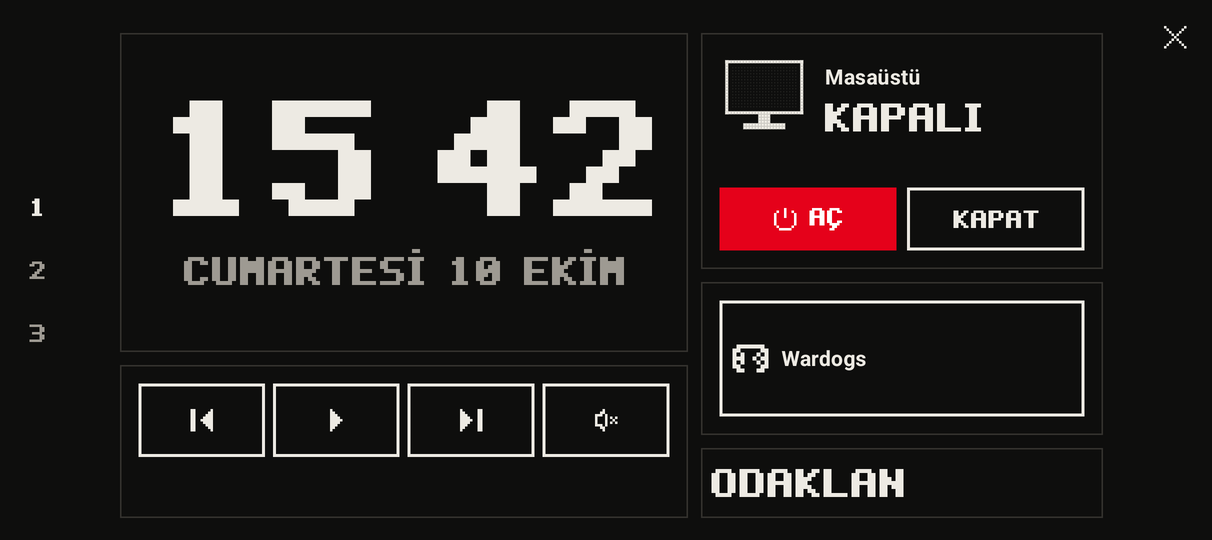
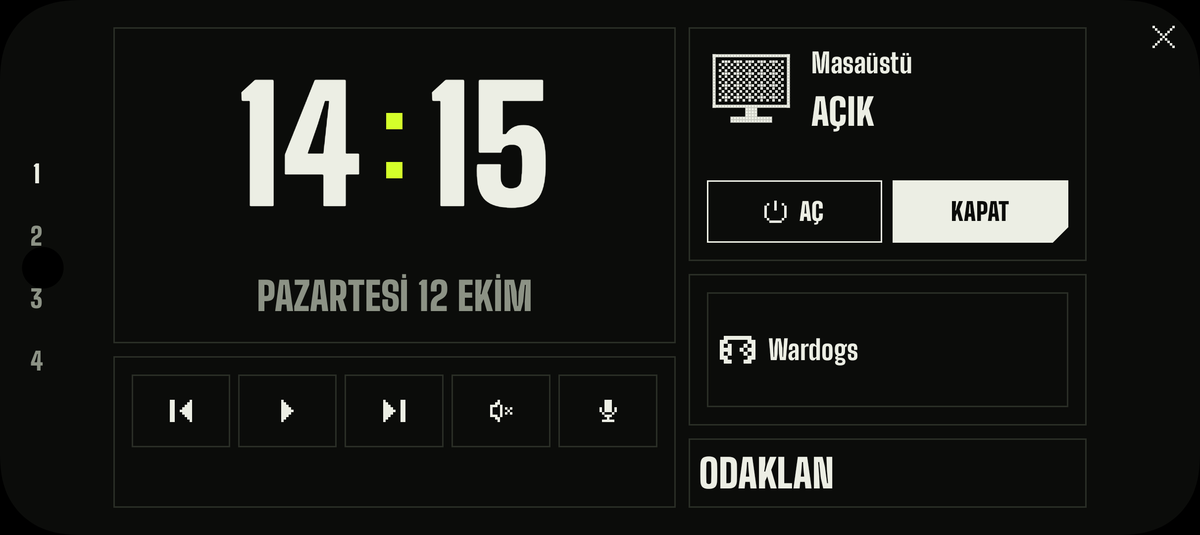
README: iki tema (KATALOG, RUNNER), dosya gönder, Kumanda widget'ı, panel ve otomasyon için yeni ekran görüntüleri

diff --git a/README.md b/README.md
@@ -1,34 +1,79 @@
 # HeyOnLan
 
-Evdeki bilgisayarını telefondan **açıp kapatan** Android uygulaması. Koltuktan kalkmadan bilgisayarı açarsın, açık unuttuysan yataktan kapatırsın.
+Evdeki bilgisayarını telefondan **açıp kapatan** ve uzaktan kumanda gibi yöneten Android uygulaması. Koltuktan kalkmadan bilgisayarı açarsın, açık unuttuysan yataktan kapatırsın, müziği durdurur, sesi kısar, fotoğrafı bilgisayara atarsın.
+
+İki görünüm var, menüden istediğin zaman geçersin: **KATALOG** (kâğıt ve mürekkep, açık ya da koyu) ve **RUNNER** (siyah zemin, asit yeşili).
 
 <p>
-  <img src="ekran/ana-ekran.png" width="240" alt="Ana ekran">
-  <img src="ekran/koyu-tema.png" width="240" alt="Koyu tema">
-  <img src="ekran/zamanli-kapat.png" width="240" alt="Zamanlı kapatma">
+  <img src="ekran/runner-ana.png" width="260" alt="RUNNER teması: ana ekran">
+  <img src="ekran/katalog-ana.png" width="260" alt="KATALOG teması: ana ekran">
+  <img src="ekran/katalog-koyu.png" width="260" alt="KATALOG koyu">
 </p>
 
 ## Neler yapıyor?
 
-- **Aç / kapat:** tek dokunuşla. Bilgisayarın gerçekten açık mı kapalı mı olduğunu gösterir.
-- **Diğer komutlar:** yeniden başlat, uyku, istediğin süre sonra kapat, kilitle, ekranı kapat, ses aç/kıs.
-- **Kısayollar:** telefondan dokununca bilgisayarda bir Steam oyunu, program ya da web sayfası açılır.
-- **Bilgiler:** bilgisayar açıkken işlemci, bellek, sıcaklık ve ne zamandır açık olduğu.
-- **Otomasyon:** belirli saatlerde aç/kapat, eve gelip Wi-Fi'a bağlanınca aç.
-- **Widget ve kısayollar:** ana ekrana küçük yuvarlak tuşlar, bildirim paneline kutucuk.
-- **Sesli komut:** "Hey Google, PC Aç'ı aç" (Bixby'de de çalışır).
-- **Panel:** telefonu yatay koyunca masada küçük bir bilgi ekranı olur. Saat, kullanım değerleri ve kısayolları parmağınla istediğin yere sürüklersin; şarj olurken kendiliğinden açılabilir.
+### Aç, kapat ve kumanda
+- **Aç / kapat:** tek dokunuşla. Bilgisayarın gerçekten açık mı kapalı mı olduğunu ölçüp gösterir.
+- **Güç:** yeniden başlat, uyku, istediğin süre sonra kapat, zamanlı kapatmayı iptal et.
+- **Masaüstü:** kilitle, ekranı kapat, sessiz, **ses yüzdesi** (çubuğu parmağınla kaydır), **mikrofonu kapat / aç** (kapalıyken tuş belli olur), donan oyunu ya da programı **zorla kapat**.
+- **Kısayollar:** dokununca bilgisayarda bir Steam oyunu, program ya da web sayfası açılır, ya da bir program kapanır. İstersen telefonun ana ekranına simge olarak eklersin.
+
+### Bilgisayara dosya gönder
+Galeride, Dosyalar'da ya da WhatsApp'ta **Paylaş**'a bas, listeden **Bilgisayara gönder**'i seç. Fotoğraf ve dosyalar bilgisayarın masaüstündeki **HeyOnLan-Depo** klasörüne düşer (klasör yoksa kendisi oluşturur). Birden fazla bilgisayarın varsa hangisine gideceğini sorar. Aynı adda dosya varsa üstüne yazmaz.
 
 <p>
-  <img src="ekran/panel.png" width="49%" alt="Panel">
-  <img src="ekran/panel-duzenle.png" width="49%" alt="Panel düzenleme">
+  <img src="ekran/paylas.png" width="300" alt="Bilgisayara gönder">
+</p>
+
+### Widget'lar
+Dört widget var: **Tuş** (tek yuvarlak tuş), **Durum** (tuş, ad ve durum), **Hepsi** (bütün bilgisayarlar yan yana) ve **Kumanda**.
+
+**Kumanda**'nın altındaki oka basınca widget'ın hemen altında seçtiğin işler açılır: uyku, kilitle, sessiz, oynat, mikrofon, kısayolların. Widget'ı basılı tutup büyütürsen aynı tuşlar widget'ın içinde görünür. Hangi işlerin çıkacağını uygulamada **Kısayollar** sayfasından seçersin.
+
+<p>
+  <img src="ekran/widget-listesi.png" width="330" alt="Widget listesi">
+  <img src="ekran/kumanda.png" width="330" alt="Kumanda widget'ı açık">
+</p>
+
+### Panel
+Telefonu yatay koyunca masada küçük bir bilgi ekranı olur: saat, çalan şarkı ve albüm kapağı, medya tuşları, işlemci, bellek, ekran kartı, sıcaklık, ağ hızı, Stream Deck gibi büyük kısayol tuşları. Düzeni parmağınla kurarsın; dört ayrı düzen arasında yana kaydırarak geçersin. Şarj olurken kendiliğinden açılabilir. Panel ya da uygulama açıkken bilgisayar çok ısınırsa telefona uyarı gelir.
+
+<p>
+  <img src="ekran/panel.png" width="100%" alt="Panel">
+</p>
+<p>
+  <img src="ekran/panel-ayar.png" width="260" alt="Panel ayarları">
+</p>
+
+### Otomasyon
+Kural: **ne zaman** ve sırayla **ne yapılacak**.
+- **Saatte:** ör. hafta içi 08:30'da aç, sonra Discord'u başlat.
+- **Eve gelince:** ev konumuna girip ev Wi-Fi'ına bağlanınca aç.
+- **Evden çıkınca:** telefon ağdan çıkınca ve bilgisayara bir süre dokunulmayınca bilgisayar kendini uyutur ya da kapatır.
+- **Şarja takınca:** ör. gece 23:00'ten sonra telefonu şarja takınca bilgisayarı kapat.
+
+Adımların arasına bekleme koyabilirsin (ör. aç, 2 dakika bekle, oyunu başlat). Sonuç bildirimle gelir.
+
+<p>
+  <img src="ekran/otomasyon.png" width="260" alt="Otomasyon">
+  <img src="ekran/kural.png" width="260" alt="Kural ekle">
+</p>
+
+### Diğerleri
+- **Sesli komut:** menüden **Asistanla aç / kapat**'ı aç, sonra "Hey Google, HeyOnLan'ı aç" de. Bilgisayar kapalıysa açılır, açıksa 5 saniye geri sayıp kapanır.
+- **Hızlı ayarlar kutucuğu:** bildirim panelinden tek dokunuşla aç / kapat.
+- **Tasker, Home Assistant, MacroDroid:** menüden **Dış uygulamalar**'ı açınca bu uygulamalar bilgisayarı açıp uyutabilir ya da kapatabilir. Varsayılan kapalı.
+
+<p>
+  <img src="ekran/menu-tema.png" width="260" alt="Menü ve tema seçimi">
 </p>
 
 ## Ne gerekiyor?
 
 - Android 13 veya üstü bir telefon
-- Windows 10 / 11 bilgisayar, **ethernet kablosuyla** modeme bağlı (Wi-Fi ile açılmaz)
+- Windows 10 / 11 bilgisayar
 - Telefon ve bilgisayar **aynı ev ağında** olmalı (misafir Wi-Fi olmaz)
+- Kapalı bilgisayarı açmak için bilgisayar modeme **ethernet kablosuyla** bağlı olmalı. Wi-Fi ile bağlı bilgisayar tam kapalıyken açılamaz, uykudayken (ağ kartı destekliyorsa) açılır.
 
 ## Kurulum (5 dakika)
 
@@ -51,15 +96,17 @@ Bilgisayar kapalıyken açılabilmesi için BIOS'ta **Wake on LAN** açık olmal
 
 ## Güncelleme
 
-Yeni sürüm çıkınca uygulamanın sağ üstündeki menüde **YENİ SÜRÜM** yazar. **İndir**'e bas, açılan dosyayı kur. Eski uygulamanın üstüne kurulur; **silmen gerekmez, ayarların kalır.**
+Yeni sürüm çıkınca uygulamanın menüsünde **YENİ SÜRÜM** yazar. **İndir**'e bas, açılan dosyayı kur. Eski uygulamanın üstüne kurulur; **silmen gerekmez, ayarların kalır.**
 
-Bilgisayardaki kurulum için de yeni bir sürüm çıkarsa bat dosyasını tekrar çalıştırıp uygulamada **Bağlantı → Yeniden eşleştir** yapman yeterli.
+Yeni özellikler bilgisayardaki kurulumun da güncel olmasını isteyebilir (uygulama "kurulum eski" der). O zaman **HeyOnLan-Kurulum.bat**'ı bilgisayarda bir kez daha çalıştırman yeterli; **yeniden eşleştirmen gerekmez.**
 
 ## Çalışmıyorsa
 
 - **Açılmıyor:** ethernet kablosu takılı mı, BIOS'ta Wake on LAN açık mı? Telefon aynı Wi-Fi'da mı?
 - **Kapanmıyor / komutlar gitmiyor:** uygulamada **Bağlantı → Test et**. Sorunu adım adım gösterir.
+- **"Kurulum eski" diyor:** bat dosyasını bilgisayarda tekrar çalıştır.
 - **IP değişti:** uygulama bilgisayarı ağda kendisi bulur; bulamazsa Bağlantı sayfasında test et.
+- **Otomasyon geç çalışıyor:** Otomasyon sayfasındaki **Tam saat izni** ve **Pil kısıtlamasını kaldır** uyarılarına bak.
 
 ## Kurulum bilgisayarda ne yapıyor?
 
@@ -67,8 +114,9 @@ Bat dosyası düz metindir, Not Defteri ile açıp okuyabilirsin. Özetle:
 
 - Windows'un kendi **OpenSSH Server**'ını açar (telefon komutları bununla gönderir).
 - Bağlantıya **sadece ev ağından** izin verir, şifreyle girişi kapatır.
-- Telefonun anahtarını, **sadece belirli komutları** (kapat, yeniden başlat, uyku, kilit, ses, kısayollar…) çalıştırabilecek şekilde ekler. Telefon bilgisayarında başka hiçbir şey yapamaz.
+- Telefonun anahtarını, **sadece belirli komutları** (kapat, uyku, kilit, ses, kısayollar, dosya alma…) çalıştırabilecek şekilde ekler. Telefon bilgisayarında başka hiçbir şey yapamaz; gönderdiğin dosyalar sadece masaüstündeki **HeyOnLan-Depo** klasörüne yazılabilir.
 - Wake on LAN için ağ kartı ve hızlı başlatma ayarlarını yapar.
+- "Evden çıkınca" kuralı için, sen telefondan açmadıkça kapalı duran küçük bir zamanlanmış görev ekler.
 
 ---
 
